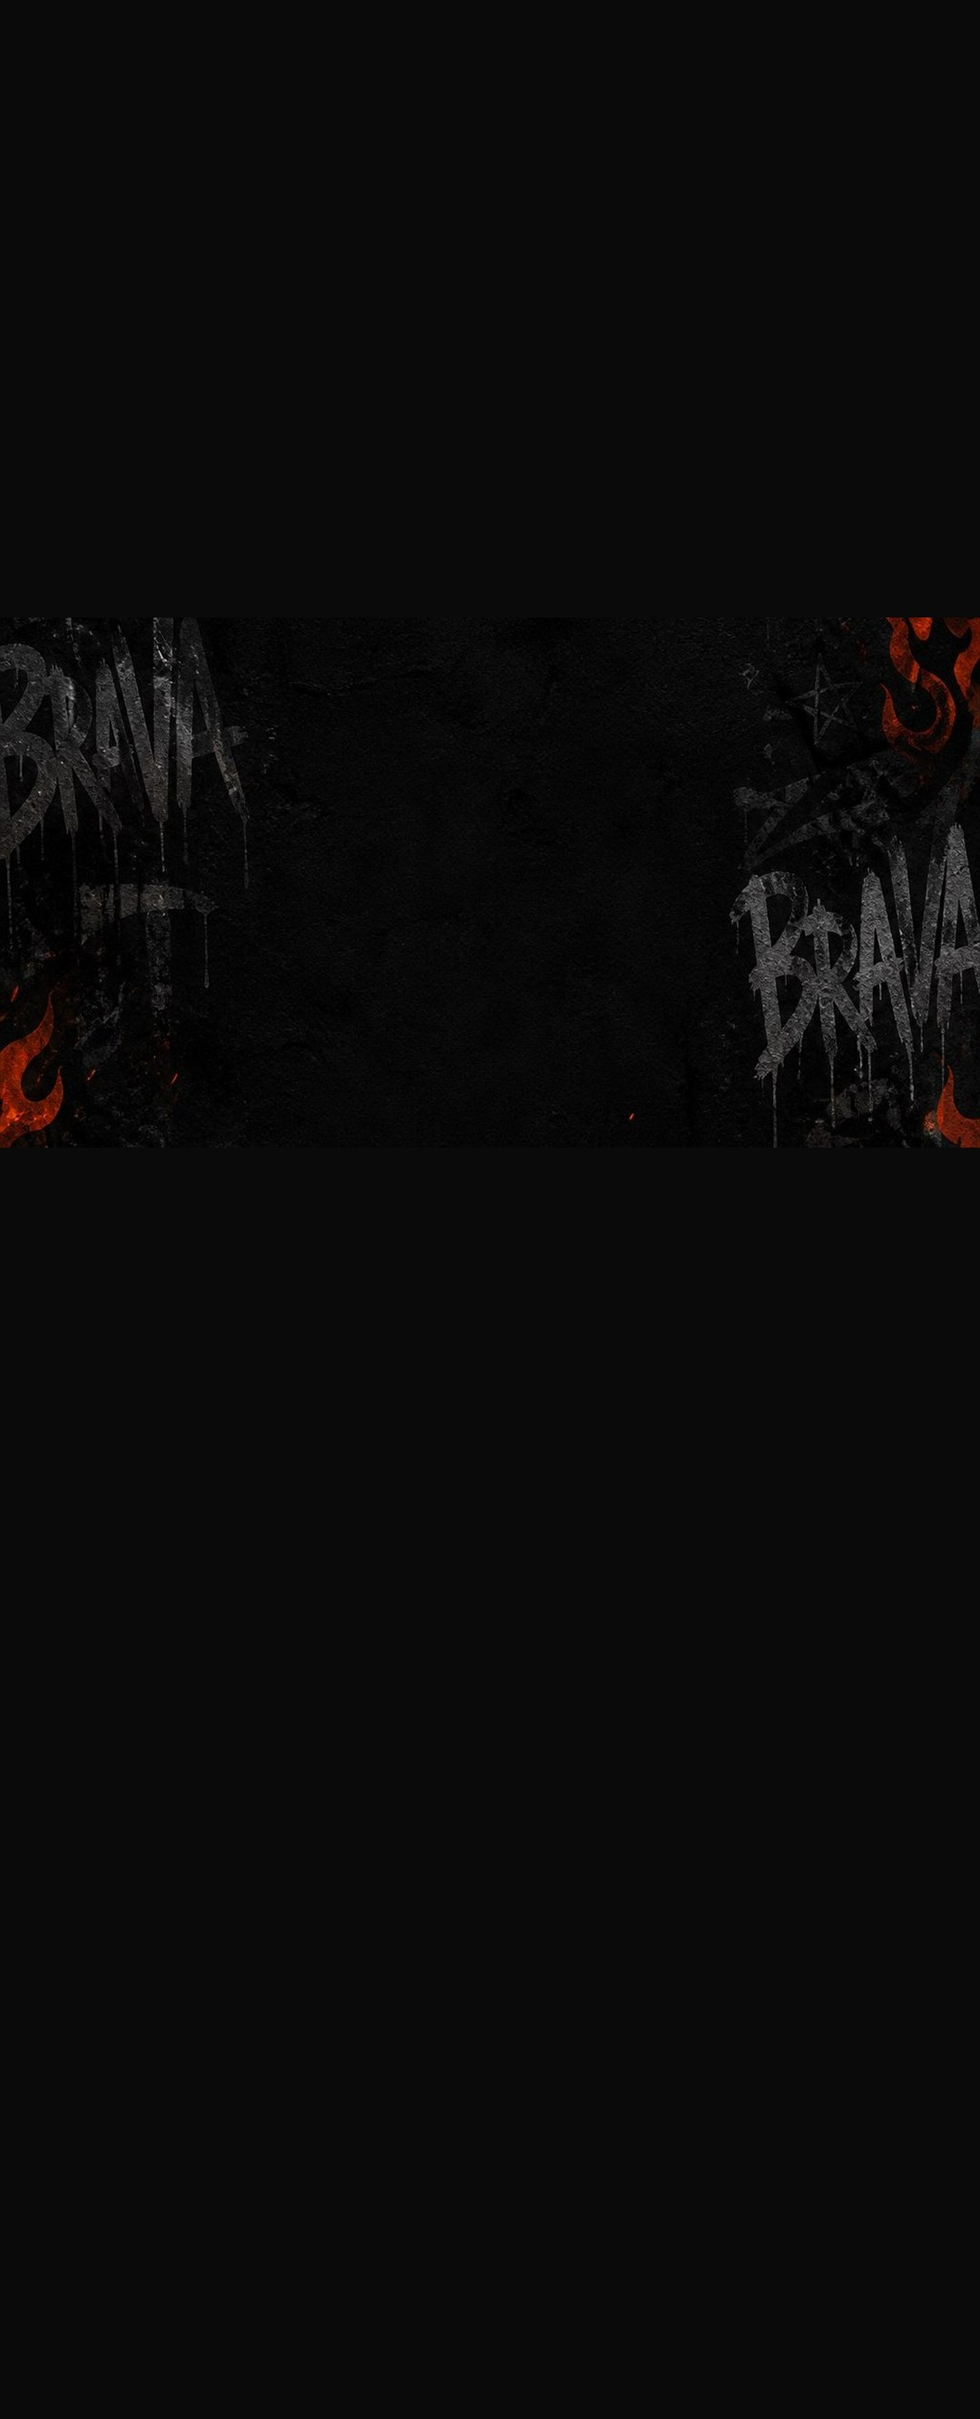
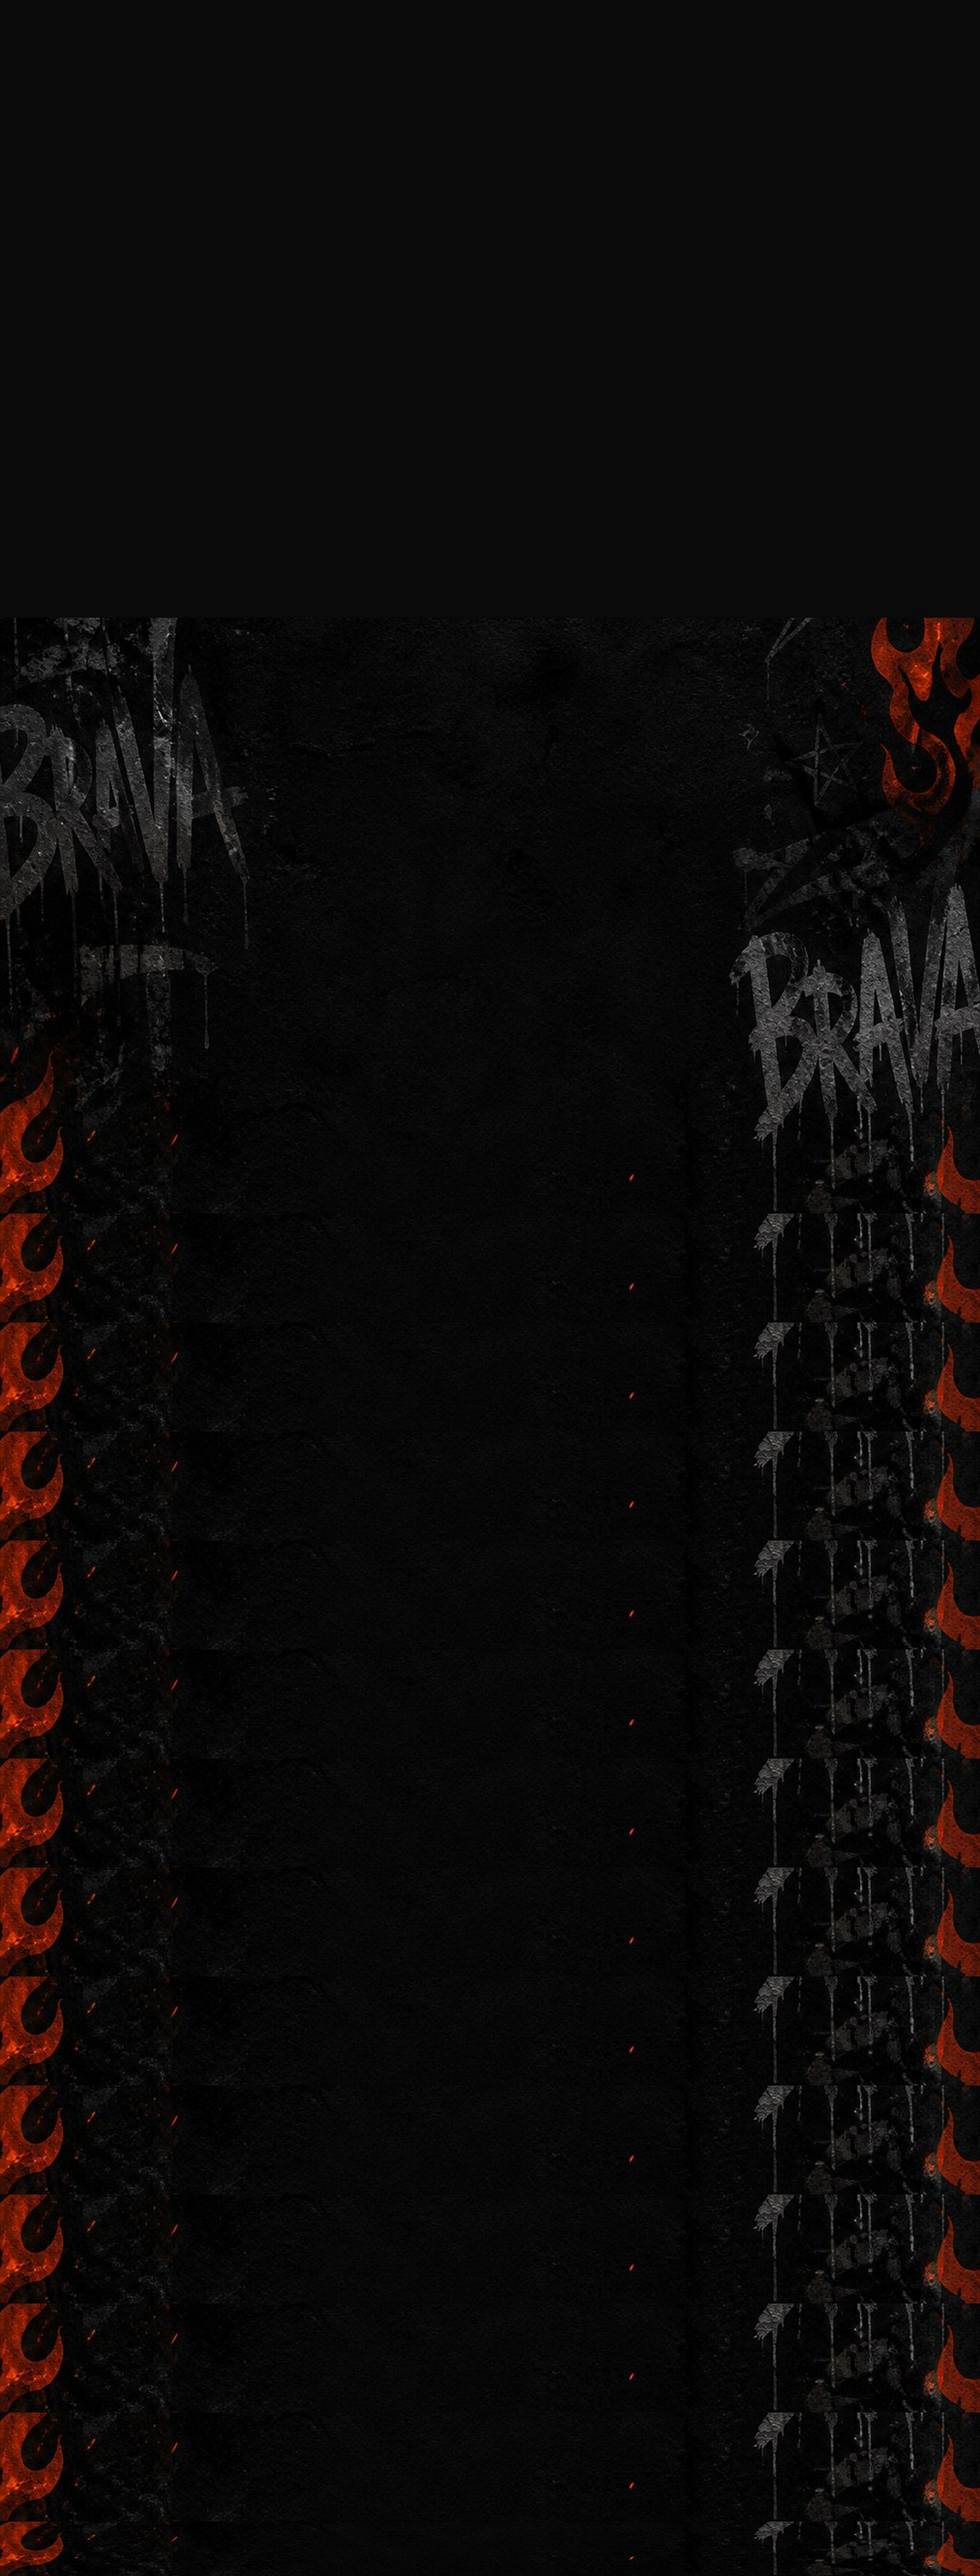
Mobile: nuevo fondo horizontal BRAVA a medida de celular.
Composite 1080px con banner ~30% viewport y extension oscura al scroll.

diff --git a/BravaBurgers/pedilo-data.js b/BravaBurgers/pedilo-data.js
@@ -832,7 +832,7 @@
 		el.textContent = css;
 
 		var bgDesktop = t.imagenFondoDesktop || t.imagenFondoPc || 'brava-fondo-tienda-desktop.jpg?v=8';
-		var bgMobile = t.imagenFondo || 'brava-fondo-tienda-mobile.jpg?v=4';
+		var bgMobile = t.imagenFondo || 'brava-fondo-tienda-mobile.jpg?v=5';
 		document.documentElement.style.setProperty('--brava-bg-mobile', "url('" + bgMobile + "')");
 		document.documentElement.style.setProperty('--brava-bg-desktop', "url('" + bgDesktop + "')");
 		document.body.classList.add('brava-has-bg-image');

diff --git a/BravaBurgers/index.html b/BravaBurgers/index.html
@@ -36,7 +36,7 @@
 		var g_ingredientes_catalog = [];
 		var g_telefono = '';
 	</script>
-	<script src="pedilo-data.js?v=40"></script>
+	<script src="pedilo-data.js?v=41"></script>
 	<link href="brava-brand.css?v=55" rel="stylesheet">
 	<style>
 		#preguntas_pedido.fancybox-content,
